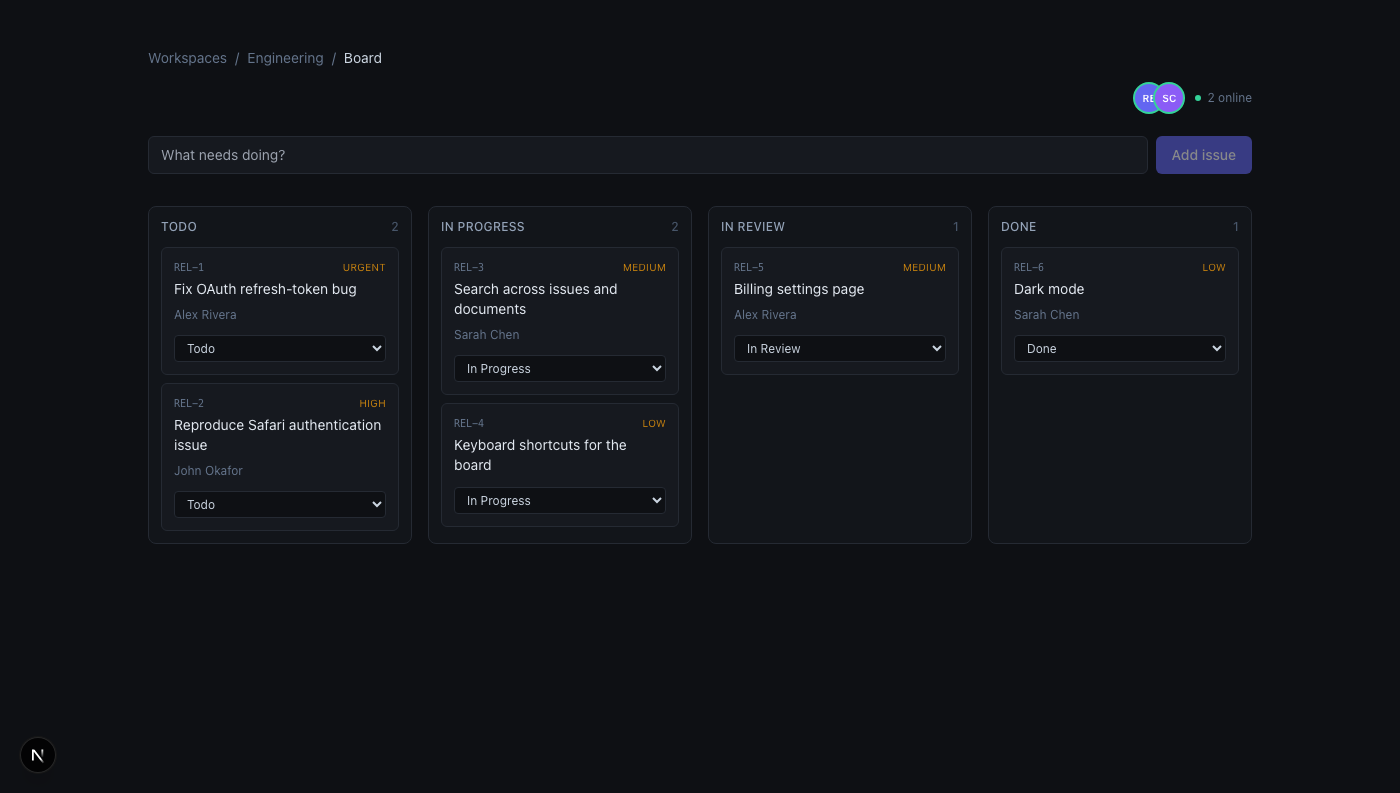
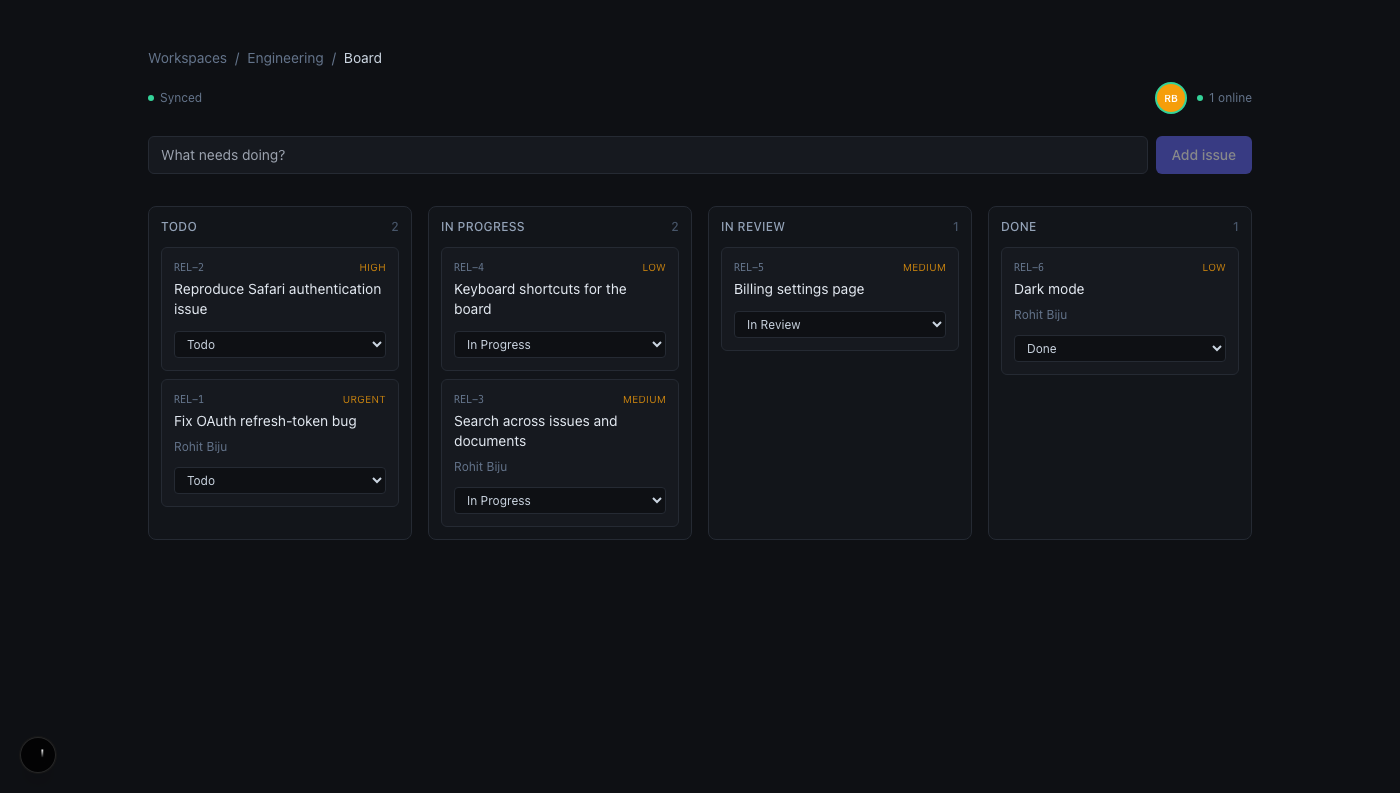
Seed a single account by default and refresh the board on realtime events
Seeding

The seed now creates one account, the owner. The previous roster of invented
teammates is available behind `--team`, because presence and the role model are
only observable with more than one person -- a permission matrix demonstrates
nothing when every session is the same owner. Cleanup removes every account the
script can create, not just the ones it is about to, so switching between the
two modes leaves nothing behind. Issue assignees fall back to unassigned when
the named teammate does not exist.

Realtime regression

Moving the board onto the sync engine quietly broke live updates. Domain events
invalidated TanStack Query keys, but the board no longer reads through Query --
it reads the local store -- so nothing repainted and changes only appeared on
the next five-second poll. Measured at ~3s.

`useRealtime` now takes an `onEvent` callback, held in a ref so an inline
function does not rebuild the socket, and the board passes its `refresh`.
Propagation is back to immediate.

Also

- Screenshots regenerated against the single-account seed.
- Local editor state moved to the global git excludes file.

diff --git a/scripts/seed.ts b/scripts/seed.ts
@@ -4,7 +4,13 @@
  * Idempotent: re-running wipes the seeded rows first, so it is safe to use as a
  * "put things back how they were" button during development.
  *
- *   bun run db:seed
+ *   bun run db:seed           just the owner account
+ *   bun run db:seed --team    plus four teammates, for multi-user demos
+ *
+ * The default is a single account. The `--team` roster exists because presence,
+ * live collaboration and the role model are only observable with more than one
+ * person -- there is nothing to see in a permission matrix when every session is
+ * the same owner.
  */
 import { hashPassword } from '@relay/auth';
 import {
@@ -19,22 +25,32 @@ import { type IssuePriority, type IssueStatus, type Role, slugify } from '@relay
 import { eq, inArray } from 'drizzle-orm';
 
 const DATABASE_URL = process.env.DATABASE_URL ?? 'postgres://relay:relay@localhost:5433/relay';
-const PASSWORD = 'relay-demo-password';
+const PASSWORD = process.env.SEED_PASSWORD ?? 'relay-demo-password';
 
-const PEOPLE: { email: string; name: string; role: Role }[] = [
-  { email: 'rohit@relay.dev', name: 'Rohit Biju', role: 'OWNER' },
-  { email: 'sarah@relay.dev', name: 'Sarah Chen', role: 'OWNER' },
+const WITH_TEAM = process.argv.includes('--team');
+
+type Person = { email: string; name: string; role: Role };
+
+const OWNER: Person = { email: 'rohit@relay.dev', name: 'Rohit Biju', role: 'OWNER' };
+
+/** Only created with `--team`. */
+const TEAM: Person[] = [
   { email: 'alex@relay.dev', name: 'Alex Rivera', role: 'ADMIN' },
   { email: 'john@relay.dev', name: 'John Okafor', role: 'MEMBER' },
   { email: 'mia@relay.dev', name: 'Mia Lindqvist', role: 'GUEST' },
 ];
 
-const PROJECTS: {
-  key: string;
-  name: string;
-  description: string;
-  issues: { title: string; status: IssueStatus; priority: IssuePriority; assignee?: string }[];
-}[] = [
+const PEOPLE: Person[] = WITH_TEAM ? [OWNER, ...TEAM] : [OWNER];
+
+type IssueSpec = {
+  title: string;
+  status: IssueStatus;
+  priority: IssuePriority;
+  /** Only honoured when that person exists; otherwise the issue is unassigned. */
+  assignee?: string;
+};
+
+const PROJECTS: { key: string; name: string; description: string; issues: IssueSpec[] }[] = [
   {
     key: 'REL',
     name: 'Web App',
@@ -44,19 +60,14 @@ const PROJECTS: {
         title: 'Fix OAuth refresh-token bug',
         status: 'TODO',
         priority: 'URGENT',
-        assignee: 'alex@relay.dev',
+        assignee: OWNER.email,
       },
-      {
-        title: 'Reproduce Safari authentication issue',
-        status: 'TODO',
-        priority: 'HIGH',
-        assignee: 'john@relay.dev',
-      },
+      { title: 'Reproduce Safari authentication issue', status: 'TODO', priority: 'HIGH' },
       {
         title: 'Search across issues and documents',
         status: 'IN_PROGRESS',
         priority: 'MEDIUM',
-        assignee: 'sarah@relay.dev',
+        assignee: OWNER.email,
       },
       { title: 'Keyboard shortcuts for the board', status: 'IN_PROGRESS', priority: 'LOW' },
       {
@@ -65,7 +76,7 @@ const PROJECTS: {
         priority: 'MEDIUM',
         assignee: 'alex@relay.dev',
       },
-      { title: 'Dark mode', status: 'DONE', priority: 'LOW', assignee: 'sarah@relay.dev' },
+      { title: 'Dark mode', status: 'DONE', priority: 'LOW', assignee: OWNER.email },
     ],
   },
   {
@@ -77,7 +88,7 @@ const PROJECTS: {
         title: 'Rate limit the auth endpoints',
         status: 'TODO',
         priority: 'HIGH',
-        assignee: 'sarah@relay.dev',
+        assignee: OWNER.email,
       },
       { title: 'Audit log retention policy', status: 'TODO', priority: 'NONE' },
       {
@@ -96,22 +107,24 @@ const WORKSPACE_NAME = 'Engineering';
 const { db, close } = createDatabase(DATABASE_URL);
 
 try {
-  const emails = PEOPLE.map((p) => p.email);
+  // Clear every account this script can create, not just the ones it is about
+  // to create, so switching between solo and --team leaves nothing behind.
+  const seedEmails = [OWNER, ...TEAM].map((person) => person.email);
 
-  // Remove any previous seed. Workspaces cascade to projects and issues; users
-  // are deleted last because `created_by` is ON DELETE RESTRICT.
+  // Workspaces cascade to projects and issues; users are deleted after, because
+  // `created_by` is ON DELETE RESTRICT.
   await db.delete(workspaces).where(eq(workspaces.slug, slugify(WORKSPACE_NAME)));
-  await db.delete(users).where(inArray(users.email, emails));
+  await db.delete(users).where(inArray(users.email, seedEmails));
 
   const passwordHash = await hashPassword(PASSWORD);
 
   const createdUsers = await db
     .insert(users)
-    .values(PEOPLE.map((p) => ({ email: p.email, name: p.name, passwordHash })))
+    .values(PEOPLE.map((person) => ({ email: person.email, name: person.name, passwordHash })))
     .returning({ id: users.id, email: users.email });
 
-  const userIdByEmail = new Map(createdUsers.map((u) => [u.email, u.id]));
-  const ownerId = userIdByEmail.get('sarah@relay.dev')!;
+  const userIdByEmail = new Map(createdUsers.map((user) => [user.email, user.id]));
+  const ownerId = userIdByEmail.get(OWNER.email)!;
 
   const [workspace] = await db
     .insert(workspaces)
@@ -119,10 +132,10 @@ try {
     .returning();
 
   await db.insert(workspaceMembers).values(
-    PEOPLE.map((p) => ({
+    PEOPLE.map((person) => ({
       workspaceId: workspace!.id,
-      userId: userIdByEmail.get(p.email)!,
-      role: p.role,
+      userId: userIdByEmail.get(person.email)!,
+      role: person.role,
     })),
   );
 
@@ -149,7 +162,9 @@ try {
         title: issue.title,
         status: issue.status,
         priority: issue.priority,
-        assigneeId: issue.assignee ? userIdByEmail.get(issue.assignee)! : null,
+        // Falls back to unassigned when seeding solo and the named teammate
+        // does not exist.
+        assigneeId: (issue.assignee && userIdByEmail.get(issue.assignee)) ?? null,
         createdBy: ownerId,
       })),
     );
@@ -157,10 +172,15 @@ try {
     issueCount += spec.issues.length;
   }
 
+  const who = WITH_TEAM ? `${PEOPLE.length} users` : '1 user';
   console.log(
-    `Seeded "${WORKSPACE_NAME}": ${PEOPLE.length} users, ${PROJECTS.length} projects, ${issueCount} issues.`,
+    `Seeded "${WORKSPACE_NAME}": ${who}, ${PROJECTS.length} projects, ${issueCount} issues.`,
   );
-  console.log(`Sign in as any of ${emails.join(', ')} with password "${PASSWORD}".`);
+  console.log(`Sign in as ${OWNER.email} with password "${PASSWORD}".`);
+
+  if (!WITH_TEAM) {
+    console.log('Run with --team to add teammates for presence and role demos.');
+  }
 } finally {
   await close();
 }

diff --git a/apps/web/lib/realtime.ts b/apps/web/lib/realtime.ts
@@ -24,12 +24,26 @@ export type ConnectionState = 'connecting' | 'live' | 'offline';
  * socket pushed, and it means a missed event during a reconnect is self-healing
  * -- the refetch on resubscribe brings everything current.
  */
-export function useRealtime(workspaceId: string | null, location: string | null = null) {
+export function useRealtime(
+  workspaceId: string | null,
+  location: string | null = null,
+  /**
+   * Called for every domain event. The board reads from the local store rather
+   * than from TanStack Query, so invalidating query keys is not enough to make
+   * it repaint -- it needs an explicit nudge to pull and reconcile.
+   */
+  onEvent?: (event: ServerEvent) => void,
+) {
   const queryClient = useQueryClient();
   const [presence, setPresence] = useState<PresenceUser[]>([]);
   const [state, setState] = useState<ConnectionState>('connecting');
 
   const socketRef = useRef<WebSocket | null>(null);
+
+  // Held in a ref so a caller passing an inline function does not tear down and
+  // rebuild the socket on every render.
+  const onEventRef = useRef(onEvent);
+  onEventRef.current = onEvent;
   // Held in a ref so the reconnect loop can read the current location without
   // being torn down and rebuilt every time the user navigates.
   const locationRef = useRef(location);
@@ -50,6 +64,8 @@ export function useRealtime(workspaceId: string | null, location: string | null 
     };
 
     function handleEvent(event: ServerEvent) {
+      onEventRef.current?.(event);
+
       const invalidate = (key: unknown[]) => queryClient.invalidateQueries({ queryKey: key });
 
       switch (event.type) {

diff --git a/apps/web/app/workspaces/[workspaceId]/projects/[projectId]/page.tsx b/apps/web/app/workspaces/[workspaceId]/projects/[projectId]/page.tsx
@@ -24,21 +24,22 @@ export default function BoardPage() {
   const { workspaceId, projectId } = useParams<{ workspaceId: string; projectId: string }>();
   const [title, setTitle] = useState('');
 
-  // Reporting the project as our location is what lets other people see who
-  // else is looking at this board.
-  const { presence, state: realtimeState } = useRealtime(workspaceId, projectId);
-
   // The board reads from IndexedDB rather than the network, so it renders with
   // no connection and survives a reload mid-edit.
   const board = useOfflineBoard(workspaceId, projectId);
+
+  // Reporting the project as our location is what lets other people see who
+  // else is looking at this board. Domain events pull straight through to a
+  // reconcile, so someone else's change lands immediately instead of waiting
+  // for the next scheduled sync.
+  const { presence, state: realtimeState } = useRealtime(workspaceId, projectId, board.refresh);
 
   const workspace = useQuery({
     queryKey: ['workspace', workspaceId],
     queryFn: () => api<{ workspace: WorkspaceSummary }>(`/workspaces/${workspaceId}`),
   });
 
-  // A realtime event means someone else changed something, so pull it in rather
-  // than waiting for the next scheduled sync.
+  // Reconnecting means we may have missed events while the socket was down.
   const { refresh } = board;
   useEffect(() => {
     if (realtimeState === 'live') void refresh();

diff --git a/README.md b/README.md
@@ -28,7 +28,7 @@ cp .env.example .env
 ```bash
 bun run db:start     # provisions + starts Postgres on :5433
 bun run db:push      # applies the schema
-bun run db:seed      # 5 users, 2 projects, 10 issues
+bun run db:seed      # 1 account, 2 projects, 10 issues
 ```
 
 ### 3. Run the three services
@@ -43,71 +43,52 @@ bun run dev:web        # Next.js client  → http://localhost:3000
 
 ### 4. Sign in
 
-Open <http://localhost:3000>. Every demo account uses the password
-`relay-demo-password`.
+Open <http://localhost:3000>.
 
 ![Sign in](docs/screenshots/01-login.png)
 
-| Email             | Role   | What they can do                                  |
-| ----------------- | ------ | ------------------------------------------------- |
-| `rohit@relay.dev` | OWNER  | Everything, including deleting the workspace      |
-| `sarah@relay.dev` | OWNER  | Everything                                        |
-| `alex@relay.dev`  | ADMIN  | Manage people and projects, but not delete the workspace |
-| `john@relay.dev`  | MEMBER | Create and edit issues; cannot manage people      |
-| `mia@relay.dev`   | GUEST  | Read and comment only                             |
-
-### 5. You're in
+| Email             | Password              | Role  |
+| ----------------- | --------------------- | ----- |
+| `rohit@relay.dev` | `relay-demo-password` | OWNER |
 
 ![Workspaces](docs/screenshots/02-workspaces.png)
 
-Click **Engineering**, then a project, to reach the board.
+Click **Engineering** for the workspace, then a project for its board.
+
+![Workspace](docs/screenshots/03-workspace.png)
+
+![Board](docs/screenshots/04-board.png)
 
 ---
 
 ## See the interesting parts
 
-### Live collaboration
+### Live updates
 
-Open the same workspace in two different browsers (or a normal window and a
-private one) and sign in as two different people. The presence bar shows who
-else is here, and a green ring means they are looking at the same board.
+Open the board in two windows. Create an issue in one and it appears in the
+other with no reload — the WebSocket event triggers a reconcile directly, so
+propagation is immediate rather than waiting on a poll.
 
-![Presence](docs/screenshots/03-workspace-presence.png)
+![Realtime](docs/screenshots/05-realtime.png)
 
-Create an issue in one browser. It appears in the other **without a reload** —
-measured at ~2ms locally.
-
-![Realtime issue](docs/screenshots/05-realtime-issue.png)
-
-Change its status in one browser and the card moves on the other.
-
-![Realtime move](docs/screenshots/06-realtime-moved.png)
-
-### Authorization you can see
-
-Sign in as `mia@relay.dev` (GUEST) and open the same board. Same data, but the
-add-issue field and every status dropdown are gone — and the API rejects the
-request with `403` even if you send it by hand with `curl`.
-
-![Guest board](docs/screenshots/07-guest-board.png)
+The presence bar counts distinct people, not tabs, so two windows signed in as
+the same account correctly read `1 online`.
 
 ### Working offline
 
-Open a board, then cut the network (DevTools → Network → Offline, or turn off
-Wi-Fi). The board keeps working — it renders from IndexedDB rather than fetching.
+On the board, cut the network (DevTools → Network → Offline, or turn off
+Wi-Fi). The board keeps working — it renders from IndexedDB rather than
+fetching.
 
-![Offline banner](docs/screenshots/08-offline-banner.png)
+Create issues with no connection. They appear immediately, outlined in amber
+and marked **Unsynced**, and the header counts what is waiting.
 
-Create issues with no connection. They appear immediately, outlined in amber and
-marked **Unsynced**, and the header counts what is waiting.
-
-![Unsynced issues](docs/screenshots/09-offline-unsynced.png)
+![Unsynced issues](docs/screenshots/06-offline-unsynced.png)
 
 Reconnect and the queue drains by itself. The placeholder keys become real
-`REL-7` / `REL-8`, the amber outlines clear, and anyone else on the board sees
-the issues appear.
+`REL-8` / `REL-9` and the amber outlines clear.
 
-![After reconnect](docs/screenshots/11-after-reconnect.png)
+![After reconnect](docs/screenshots/07-after-reconnect.png)
 
 **Scope, honestly:** this is offline for the board's *data*. The mutation queue
 and the issue store live in IndexedDB and survive a reload — there is
@@ -115,7 +96,25 @@ and the issue store live in IndexedDB and survive a reload — there is
 storage and flushes the queue it finds. What is *not* done is offline delivery
 of the app itself: a cold page load with no network fails, because there is no
 service worker caching the app shell, and routes other than the board still
-fetch normally. That is the next piece of work, not a claim being made here.
+fetch. That is the next piece of work, not a claim being made here.
+
+### Roles and permissions
+
+The seed creates one account, so there is nothing to see in the role model out
+of the box. To exercise it:
+
+```bash
+bun run db:seed --team
+```
+
+That adds an admin, a member and a guest (all `@relay.dev`, same password).
+Signing in as the guest shows the same board with the add-issue field and every
+status dropdown gone — and the API returns `403` even if you send the request by
+hand with `curl`.
+
+The rules themselves are covered by
+[`authorization.test.ts`](tests/authorization.test.ts) regardless of what is
+seeded.
 
 ---
 
@@ -127,7 +126,8 @@ fetch normally. That is the next piece of work, not a claim being made here.
 | `bun run db:stop`       | Stop it, keeping data                         |
 | `bun run db:reset`      | Destroy the data directory and re-provision   |
 | `bun run db:push`       | Sync the schema (development)                 |
-| `bun run db:seed`       | Load demo data                                |
+| `bun run db:seed`       | Load demo data (one account)                  |
+| `bun run db:seed --team`| Add an admin, member and guest for role demos |
 | `bun run grant:owner`   | Make an account OWNER of every workspace      |
 | `bun run dev:api`       | REST API on :4000                             |
 | `bun run dev:realtime`  | WebSocket gateway on :4001                    |
